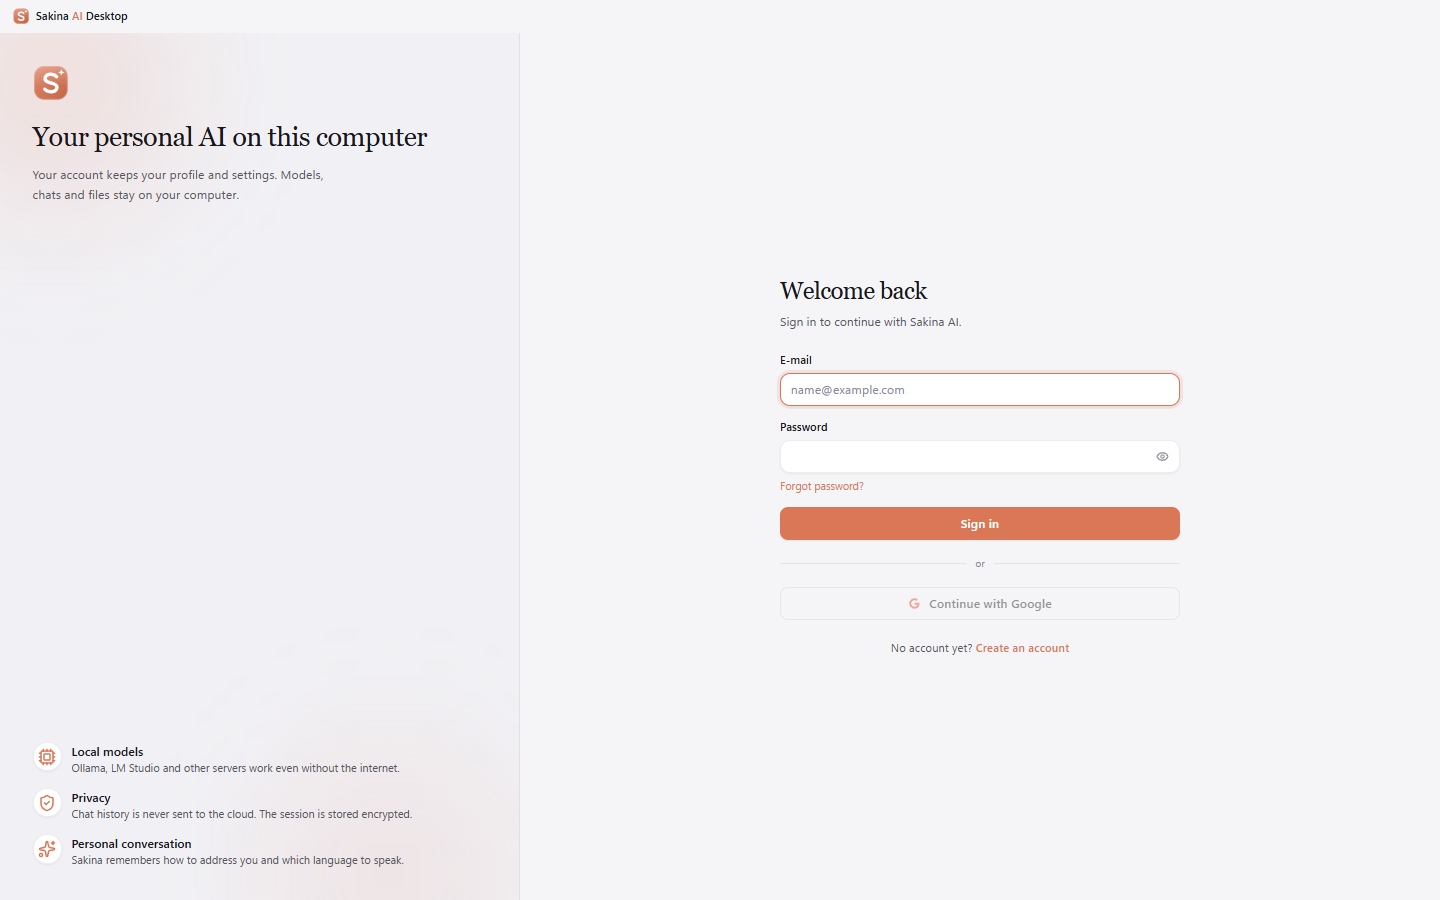
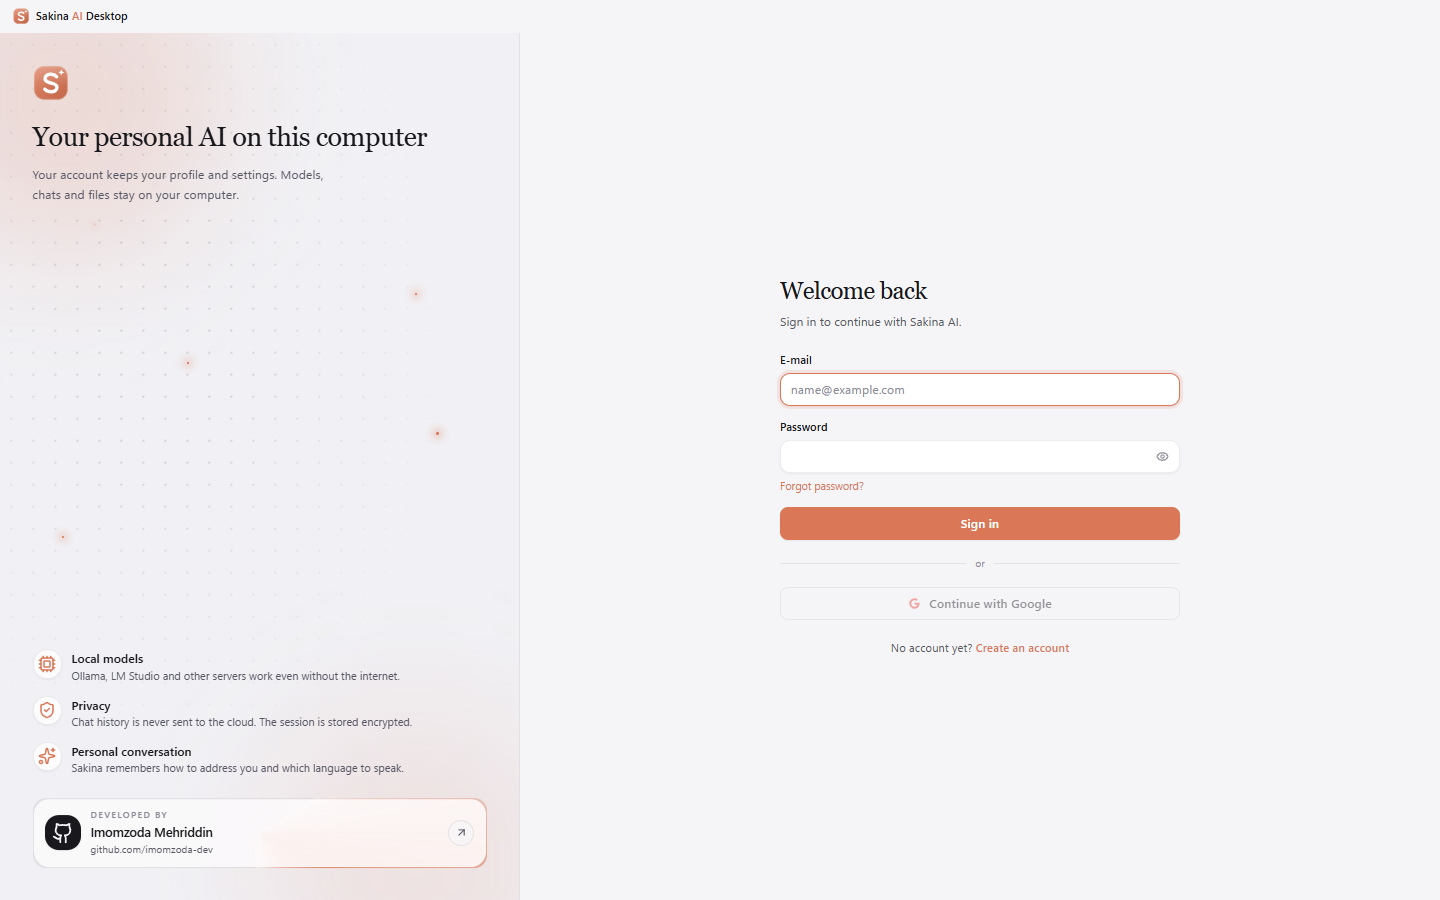
Release 1.3.1: animated developer card on the sign-in screens

diff --git a/README.ru.md b/README.ru.md
@@ -19,6 +19,14 @@
 
 ---
 
+## ✨ Новое в 1.3.1
+
+- **Экраны входа:** анимированная карточка разработчика внизу панели (GitHub · *Developed by Imomzoda Mehriddin*) на фоне плавающих светящихся пятен, мягкой точечной сетки и мерцающих искорок — всё замирает при «уменьшении движения».
+
+<p align="center">
+  <img src="docs/screenshots/account-login-dark.png" alt="Вход — тёмная тема" width="80%" />
+</p>
+
 ## ✨ Новое в 1.3.0 — ваш аккаунт Sakina
 
 - **Аккаунт Sakina:** регистрация по e-mail с подтверждением, вход, восстановление пароля — ссылка из письма открывает программу. Сеанс хранится зашифрованным (Windows DPAPI) и восстанавливается при запуске.
@@ -159,6 +167,7 @@
 
 | Версия | Скачивания |
 |---|---|
+| [v1.3.1](https://github.com/imomzoda-dev/SakinaAiDesktop/releases/tag/v1.3.1) | [![v1.3.1](https://img.shields.io/github/downloads/imomzoda-dev/SakinaAiDesktop/v1.3.1/total?label=%D1%81%D0%BA%D0%B0%D1%87%D0%B8%D0%B2%D0%B0%D0%BD%D0%B8%D0%B9&color=D97757&style=flat-square)](https://github.com/imomzoda-dev/SakinaAiDesktop/releases/tag/v1.3.1) |
 | [v1.3.0](https://github.com/imomzoda-dev/SakinaAiDesktop/releases/tag/v1.3.0) | [![v1.3.0](https://img.shields.io/github/downloads/imomzoda-dev/SakinaAiDesktop/v1.3.0/total?label=%D1%81%D0%BA%D0%B0%D1%87%D0%B8%D0%B2%D0%B0%D0%BD%D0%B8%D0%B9&color=D97757&style=flat-square)](https://github.com/imomzoda-dev/SakinaAiDesktop/releases/tag/v1.3.0) |
 | [v1.2.1](https://github.com/imomzoda-dev/SakinaAiDesktop/releases/tag/v1.2.1) | [![v1.2.1](https://img.shields.io/github/downloads/imomzoda-dev/SakinaAiDesktop/v1.2.1/total?label=%D1%81%D0%BA%D0%B0%D1%87%D0%B8%D0%B2%D0%B0%D0%BD%D0%B8%D0%B9&color=D97757&style=flat-square)](https://github.com/imomzoda-dev/SakinaAiDesktop/releases/tag/v1.2.1) |
 | [v1.2.0](https://github.com/imomzoda-dev/SakinaAiDesktop/releases/tag/v1.2.0) | [![v1.2.0](https://img.shields.io/github/downloads/imomzoda-dev/SakinaAiDesktop/v1.2.0/total?label=%D1%81%D0%BA%D0%B0%D1%87%D0%B8%D0%B2%D0%B0%D0%BD%D0%B8%D0%B9&color=D97757&style=flat-square)](https://github.com/imomzoda-dev/SakinaAiDesktop/releases/tag/v1.2.0) |

diff --git a/README.md b/README.md
@@ -20,6 +20,14 @@
 
 ---
 
+## ✨ New in 1.3.1
+
+- **Sign-in screens:** an animated developer card at the bottom of the brand panel (GitHub · *Developed by Imomzoda Mehriddin*) over gently drifting glows, a soft dot grid and twinkling sparks — still when reduced motion is on.
+
+<p align="center">
+  <img src="docs/screenshots/account-login-dark.png" alt="Sign in — dark theme" width="80%" />
+</p>
+
 ## ✨ New in 1.3.0 — your Sakina account
 
 - **Sakina account:** e-mail sign-up with confirmation, sign-in, password reset — the e-mail link opens the app. The session is stored encrypted (Windows DPAPI) and restored on start.
@@ -150,6 +158,7 @@
 
 | Version | Downloads |
 |---|---|
+| [v1.3.1](https://github.com/imomzoda-dev/SakinaAiDesktop/releases/tag/v1.3.1) | [![v1.3.1](https://img.shields.io/github/downloads/imomzoda-dev/SakinaAiDesktop/v1.3.1/total?label=downloads&color=D97757&style=flat-square)](https://github.com/imomzoda-dev/SakinaAiDesktop/releases/tag/v1.3.1) |
 | [v1.3.0](https://github.com/imomzoda-dev/SakinaAiDesktop/releases/tag/v1.3.0) | [![v1.3.0](https://img.shields.io/github/downloads/imomzoda-dev/SakinaAiDesktop/v1.3.0/total?label=downloads&color=D97757&style=flat-square)](https://github.com/imomzoda-dev/SakinaAiDesktop/releases/tag/v1.3.0) |
 | [v1.2.1](https://github.com/imomzoda-dev/SakinaAiDesktop/releases/tag/v1.2.1) | [![v1.2.1](https://img.shields.io/github/downloads/imomzoda-dev/SakinaAiDesktop/v1.2.1/total?label=downloads&color=D97757&style=flat-square)](https://github.com/imomzoda-dev/SakinaAiDesktop/releases/tag/v1.2.1) |
 | [v1.2.0](https://github.com/imomzoda-dev/SakinaAiDesktop/releases/tag/v1.2.0) | [![v1.2.0](https://img.shields.io/github/downloads/imomzoda-dev/SakinaAiDesktop/v1.2.0/total?label=downloads&color=D97757&style=flat-square)](https://github.com/imomzoda-dev/SakinaAiDesktop/releases/tag/v1.2.0) |

diff --git a/CHANGELOG.md b/CHANGELOG.md
@@ -1,5 +1,10 @@
 # Журнал изменений
 
+## 1.3.1
+
+- **Экраны входа и регистрации:** внизу панели появилась карточка разработчика — GitHub, «Developed by Imomzoda Mehriddin» и ссылка на профиль. По рамке карточки бежит свет фирменного цвета, при наведении она приподнимается, по ней проходит блик, а стрелка заливается акцентом.
+- **Живая панель:** мягкие светящиеся пятна медленно плавают, точечная сетка растворяется к краям, мерцают искорки, заголовок и пункты появляются по очереди. Всё замирает при включённом «уменьшении движения».
+
 ## 1.3.0
 
 Аккаунты Sakina, знакомство и персональное общение; настройки рабочего места; подбор моделей под компьютер.
